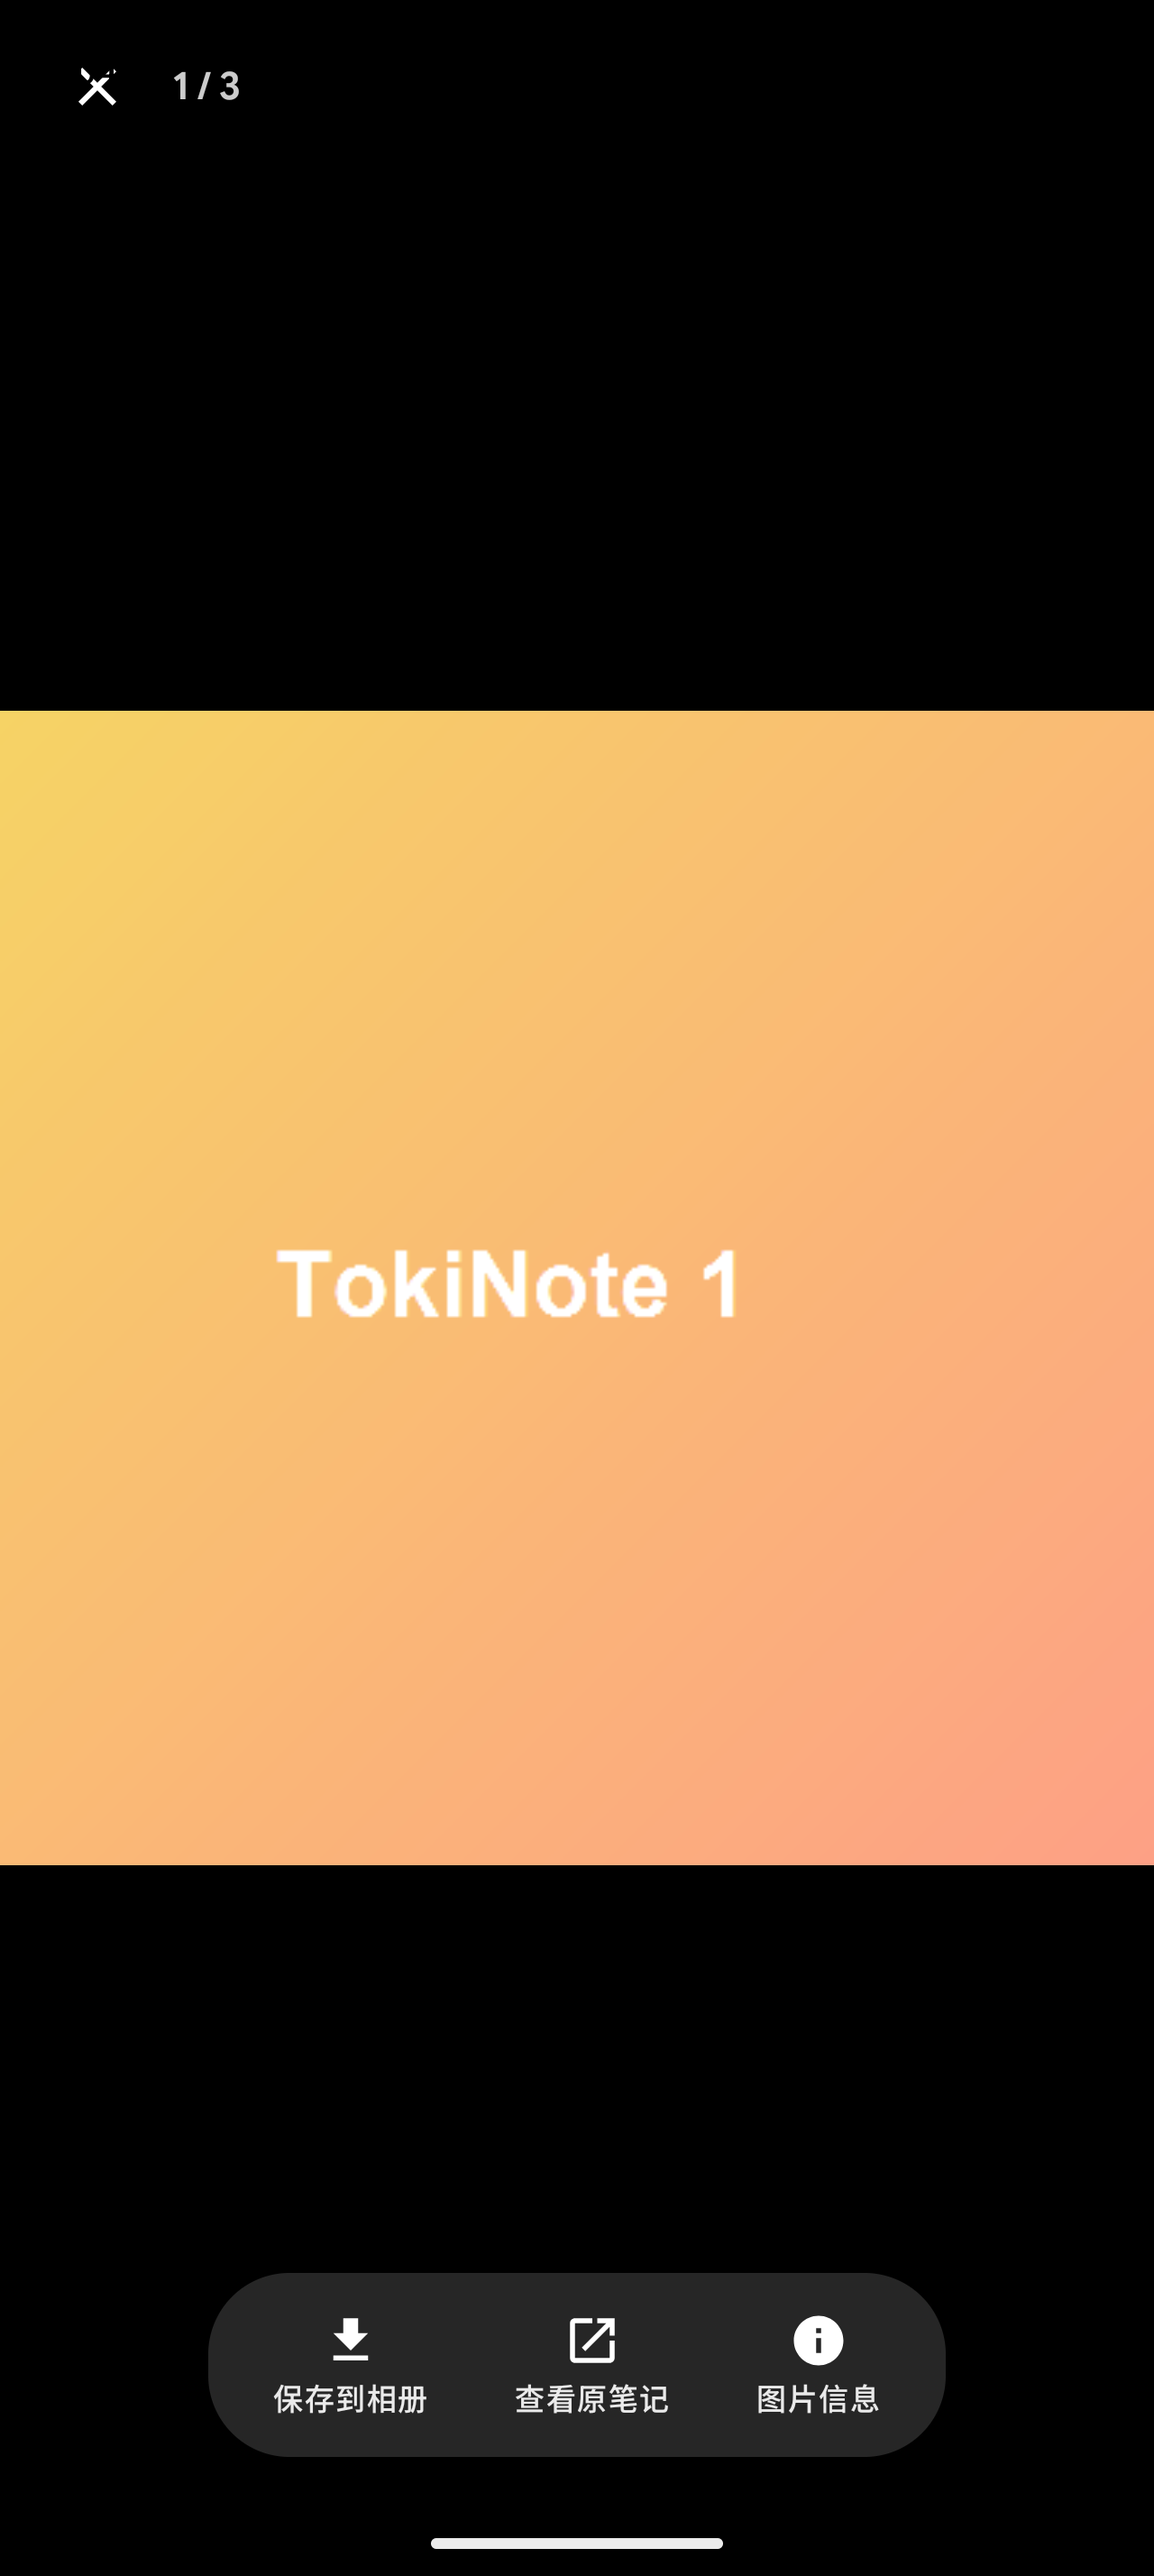
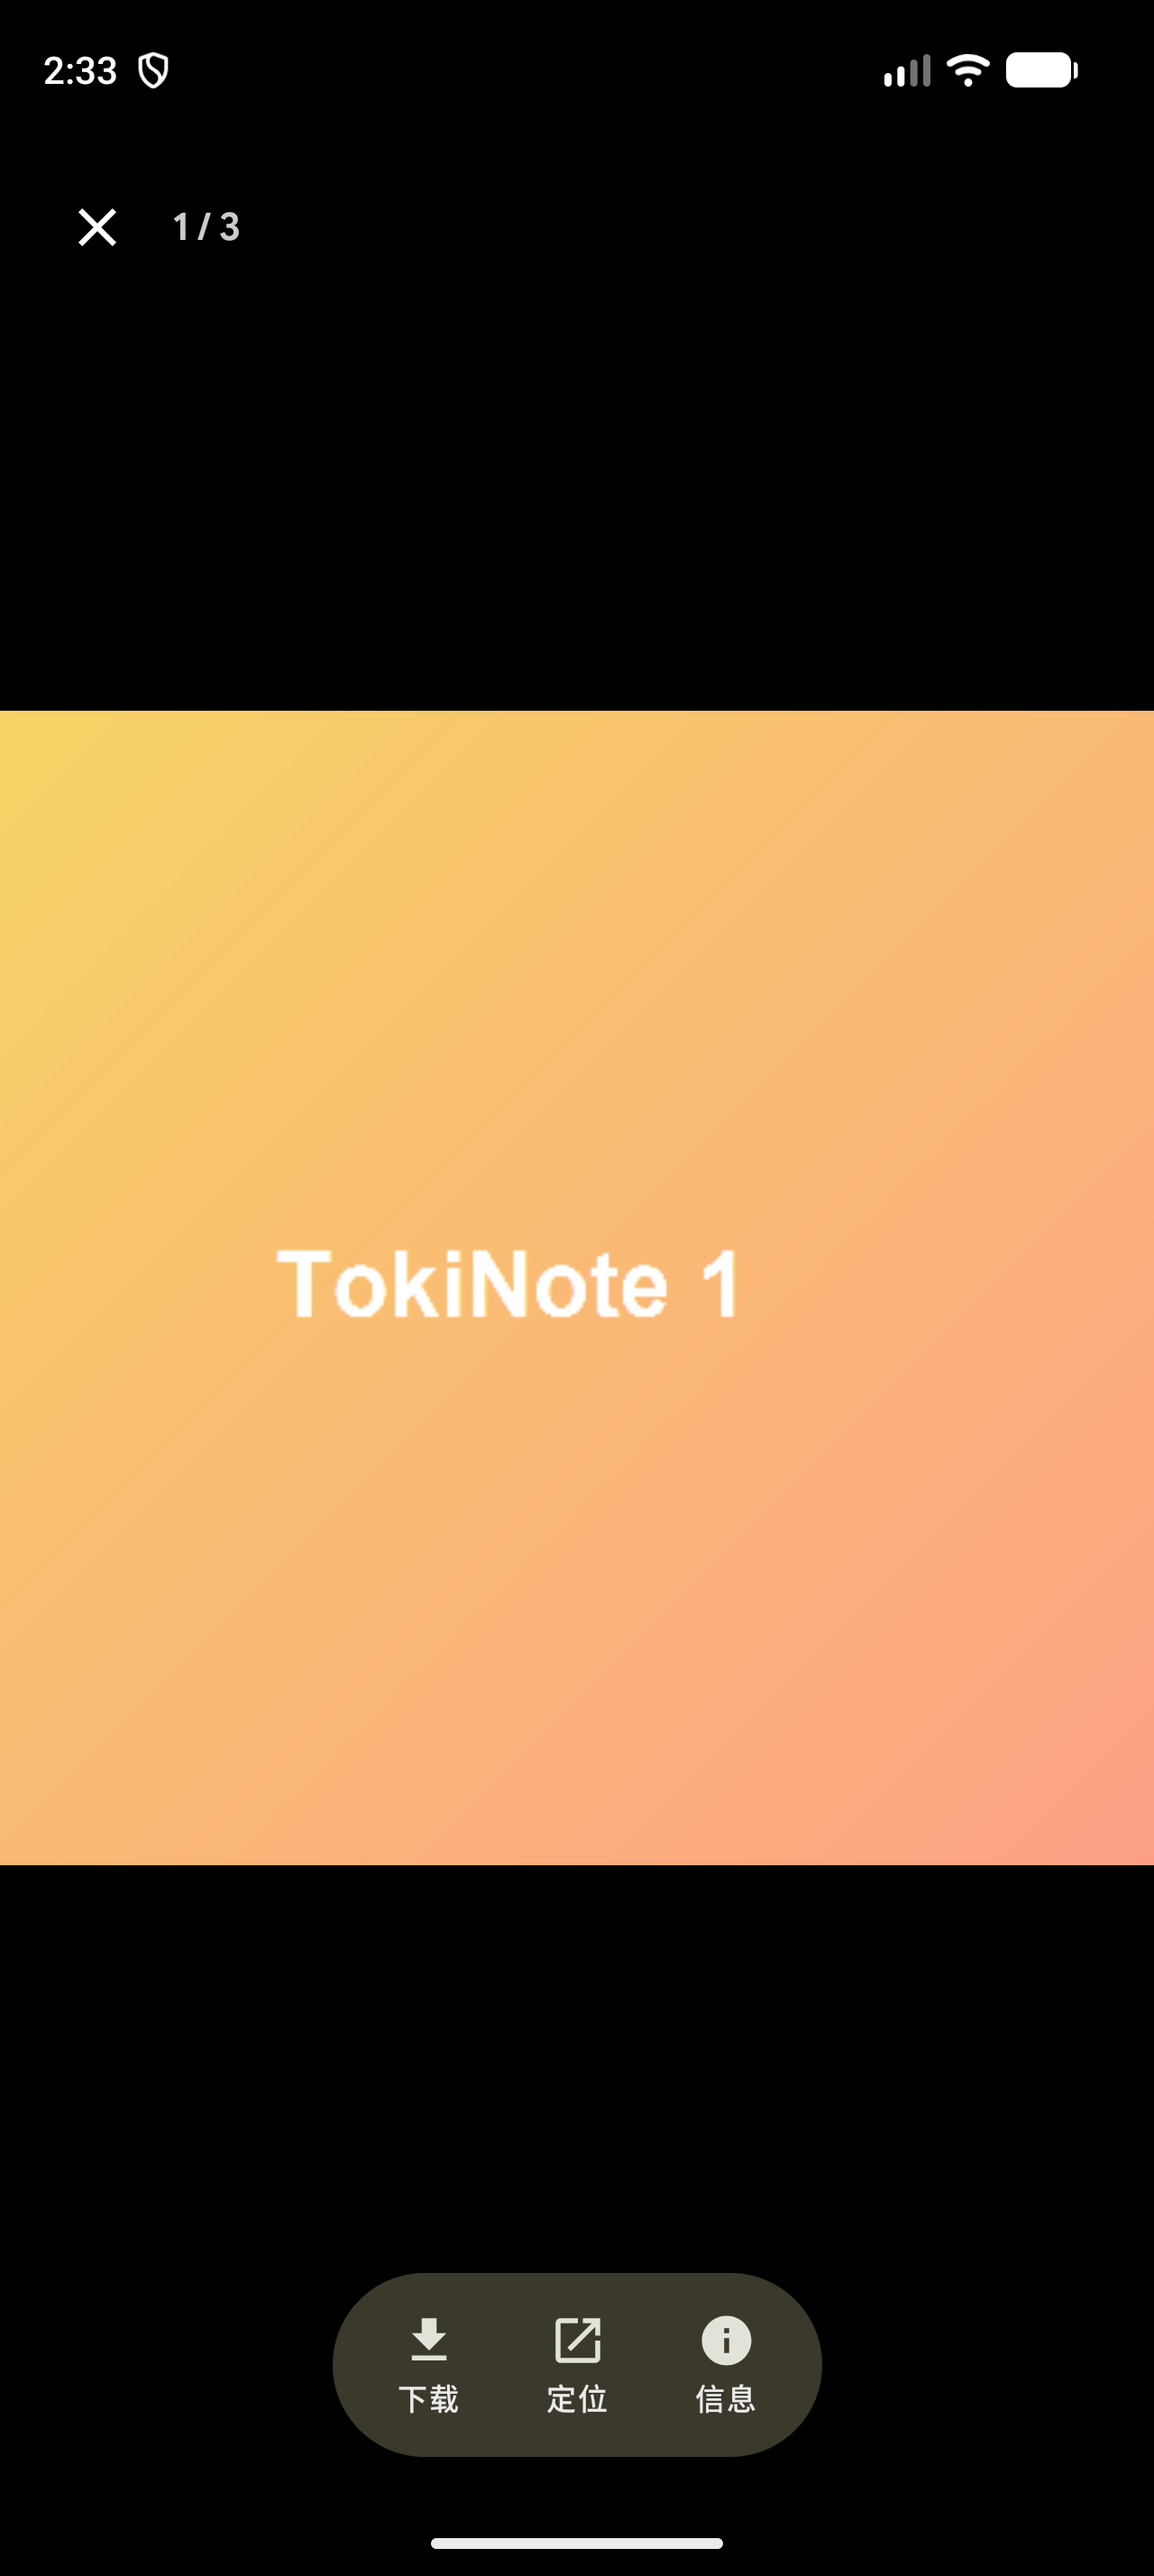
docs: refresh screenshots and rewrite README for features and design

diff --git a/README.md b/README.md
@@ -1,105 +1,85 @@
 # TokiNote
 
-本地优先的笔记 + 专注应用。设计语言以 [Tomato](https://github.com/nsh07/Tomato) 为基准，
-遵循 Material 3 Expressive：大圆角、胶囊控件、悬浮导航栏、分段列表与 Google Sans Flex。
+TokiNote 是一款本地优先的笔记 + 专注应用。
 
-| 日志时间线 | 相册 | 图片查看器 |
+笔记、图片、标签、个人资料和专注记录全部保存在本机；除了「检查更新」和后续的「公告」之外，应用不会发起网络请求。
+
+## 界面
+
+| 主页 | 分组抽屉 | 个人中心 |
 | --- | --- | --- |
-| ![](screenshots/journal.png) | ![](screenshots/album.png) | ![](screenshots/viewer.png) |
+| ![](screenshots/journal.png) | ![](screenshots/drawer.png) | ![](screenshots/profile.png) |
 
-| 编辑器 | 专注 | 统计 |
+| 编辑器 | 相册 | 图片查看器 |
 | --- | --- | --- |
-| ![](screenshots/editor.png) | ![](screenshots/focus.png) | ![](screenshots/focus-summary.png) |
+| ![](screenshots/editor.png) | ![](screenshots/album.png) | ![](screenshots/viewer.png) |
 
-| 计时设置 | 外观 | 数据 | 关于 |
-| --- | --- | --- | --- |
-| ![](screenshots/timer.png) | ![](screenshots/appearance.png) | ![](screenshots/data.png) | ![](screenshots/about.png) |
+| 专注 | 专注总结 | 计时设置 |
+| --- | --- | --- |
+| ![](screenshots/focus.png) | ![](screenshots/focus-summary.png) | ![](screenshots/timer.png) |
+
+| 外观 | 数据 | 关于 |
+| --- | --- | --- |
+| ![](screenshots/appearance.png) | ![](screenshots/data.png) | ![](screenshots/about.png) |
 
 ## 笔记
 
-- 顶部是一条半透明磨砂搜索胶囊：菜单、搜索 TokiNote、网格/列表切换、排序、头像；不再有独立 Note 标题和主页 Tab 行
-- 底栏是 One UI 风格的单层毛玻璃胶囊（30dp 模糊 + 轻叠色 + 边缘高光）与小圆角矩形按钮：列表 / 日历 / 搜索结果从下方滚过时会真实模糊背后内容
-- Expressive 外形：不对称圆角卡片、加粗大标题、细描边的彩色标签
-- 笔记列表：支持「已置顶 / 全部笔记」小标题、两列网格与单列列表；卡片有图时图片顶部铺满，无图时不渲染图片容器
-- 左侧抽屉：笔记 / 相册 / 统计三个入口，选中高亮；笔记分组与相册文件夹是可折叠小节（旋转箭头 + 伸缩动画），抽屉左边距 16dp、宽度 68%、大阴影
-- 相册文件夹：支持命名、多选照片、查看创建时间、编辑/删除；点顶栏头像打开 Google 账户风格「个人中心」，可展开编辑用户名 / 邮箱、从相册换头像、查看 App 存储占用并跳系统应用详情；功能卡与存储卡按设置页样式贴成一张分组卡片
-- 全屏沉浸式：状态栏 / 导航栏透明，顶部有一层渐变 scrim，状态栏图标随深浅色自动切换
-- 日志：按天分组的卡片，含 emoji、标题、正文预览、描边标签、图片拼贴与时间（可在外观设置里关闭时间）
-- 长按卡片会从卡片实际位置膨胀成屏幕中央的预览窗，背景压暗，可直接打开 / 归档 / 删除
-- 归档的笔记不进首页且不可编辑；回收站保留 14 天，可恢复或彻底删除
-- 相册：当月图片三列网格；点开进入全屏查看器
-  - 双指缩放、双击放大
-  - 底部悬浮操作条：保存到系统相册 / 查看原笔记 / 图片信息（大小、时间、路径）
-- 日历页：月视图，有日记的日子显示当天 emoji，选中日直接列出当天日记
-- 编辑器：首图提取主色，驱动背景 / 标题 / 保存按钮 / 底部工具岛；正文与头部全屏滚动、顶栏和工具岛悬浮；向下滚动时标题缩小、日期标签 Spring 收起，回顶弹回；
-  图片横幅 + 大标题留白；底部是默认收起、点击后弹性展开的悬浮工具岛；顶部「更多」打开笔记信息面板（创建 / 编辑时间、标签、归档 / 删除）
+- 顶部悬浮搜索胶囊：菜单、搜索 TokiNote、网格 / 列表切换、排序和头像集中在一条控件里
+- 笔记列表支持「已置顶 / 全部笔记」分区、两列网格与单列列表；有图时图片在卡片顶部铺满，无图时卡片直接从标题开始
+- 长按卡片会从卡片位置展开预览，可直接打开、归档或删除
+- 左侧悬浮抽屉：笔记 / 相册 / 统计三个入口，笔记分组与相册文件夹可折叠展开，选中项高亮
+- 相册文件夹支持命名、多选照片、查看创建时间、编辑和删除；文件夹只记录照片引用，不复制或删除原图
+- 相册支持网格 / 列表切换；点开照片进入全屏查看器，支持双指缩放、双击放大、保存到系统相册、回到原笔记和查看图片信息
+- 日历视图按天展示日记，有记录的日期显示当天 emoji，选中日期直接列出当天内容
+- 编辑器从首图提取主色，驱动背景、标题、保存按钮和底部工具岛；正文与头部整体滚动，顶栏和工具岛悬浮
+- 向下滚动时大标题缩小、日期标签弹性收起，顶栏显示当前标题；回到顶部自动恢复
+- 底部工具岛默认收起，点击后弹性展开格式、图片、清单和日期工具；顶部「更多」打开笔记信息面板
+- 归档笔记不进入主页且不可编辑；回收站保留 14 天，可恢复或彻底删除
 
 ## 专注
 
-- 专注 25 / 短休息 5 / 长休息 15，长休息间隔可调
-- 「波浪断点」计时环 + 中心暂停按钮
-- 不定时专注：长按或双击计时数字进入正向计时，重置回到原计时
-- 重置 / 跳过 / 计时器设置三个按钮，右下角独立按钮直接进入统计
-- 统计页照 Tomato：今天专注与休息卡片、上周柱状图、上个月迷你柱状图
-- 计时设置照 Tomato：大号时间预览 + 场景切换 + 预设胶囊 + 自定义（系统时间选择器）
+- 支持专注、短休息、长休息计时，时长与长休息间隔可自定义
+- 波浪断点计时环 + 中央主按钮，重置 / 跳过 / 设置独立排列
+- 长按或双击计时数字进入不定时正向计时，重置后回到原计时
+- 专注总结展示今日专注 / 休息、上周柱状图和上个月迷你柱状图
+- 计时设置提供大号预览、场景切换、预设胶囊和系统时间选择器
+
+## 个人中心
+
+- 点顶栏头像打开个人中心
+- 头像可从系统相册选择，也可使用内置 emoji
+- 用户名和邮箱可展开编辑，修改立即在全局生效
+- 存储卡显示 APK、本地文件和缓存的占用，点击可直接进入系统应用详情
+- 管理账号与功能入口当前为占位，点击会提示「功能暂不支持」
 
 ## 设置
 
-- 外观：主题模式、配色预设（抹茶 / 晴空 / 紫藤 / 暖橙）、动态取色、纯黑、显示时间、减弱动效
-- 数据：笔记数量、备份 JSON、清空全部数据（同为分段列表项）
-- 关于：只保留「基于 Material Design 3 Expressive 设计」、版本、检查更新、GitHub 主页；检查更新右侧有 Release / Beta 下拉通道（M3E 大圆角菜单 + Spring 箭头）
+- 外观：主题模式（跟随系统 / 浅色 / 深色）、配色预设、动态取色、纯黑、显示时间、减弱动效
+- 数据：笔记 / 归档 / 回收站数量、备份 JSON、清除缓存、存储占用、清空全部数据
+- 关于：版本信息、检查更新、GitHub 主页
 
 ## 应用内更新
 
-「检查更新」读取 GitHub Releases API 比对版本；有新版时展示 release notes，
-可下载 APK 并交给系统安装器（未授权「安装未知应用」时自动跳转设置）。
-Release 通道只匹配 `0.2.7` 这类标准 tag；Beta 通道只匹配 `0.2.9-beta` 这类带 `-beta` 的测试 tag，两边的 release 不会互相混入。
+- 「检查更新」读取 GitHub Releases，比对当前版本后展示更新说明
+- 支持 Release 与 Beta 两个通道：
+  - Release 只匹配 `0.2.7` 这类标准版本
+  - Beta 只匹配 `0.2.9-beta` 这类测试版本
+- 有新版本时可直接下载 APK 并交给系统安装器；未授权「安装未知应用」时会跳转系统设置
+- 下载失败、网络不可达或没有匹配版本时会在页面内提示，不影响本地功能
 
-除检查更新和后续公告拉取外，App 不发起任何网络请求；没有匿名统计、账号上报，笔记和个人资料只保存在本机。
+## 数据与隐私
 
-## 数据存储
+- 所有笔记、图片、标签、分组、相册文件夹、个人资料和专注记录都保存在本机
+- 支持导出完整 JSON 备份；清除缓存不会删除笔记
+- 不接入匿名统计、账号上报或用户画像，不上传用户 ID、邮箱和笔记内容
+- 断网时除检查更新外，所有功能均可正常使用
 
-所有数据保存在设备本地（`SharedPreferences` + JSON）：`notes` / `labels` / `groups` / `settings` / `sessions`。
-只有「检查更新 / 下载 APK」会访问 `api.github.com` 与 GitHub 下载地址。
+## 设计
 
-## 构建
-
-```bash
-# 需要 JDK 17+ 与 Android SDK（compileSdk 37）
-./gradlew assembleDebug
-adb install -r app/build/outputs/apk/debug/app-debug.apk
-```
-
-## 工程结构
-
-```
-app/src/main/java/com/tokinote/app/
-├── MainActivity.kt            入口，主题（深色 / 动态取色 / 配色预设 / 纯黑）
-├── data/
-│   ├── Note.kt                笔记模型
-│   ├── NoteGroup.kt           首页分组模型
-│   ├── AppSettings.kt         设置、配色预设与专注记录
-│   ├── TokiStore.kt           SharedPreferences + JSON 持久化
-│   ├── UpdateChecker.kt       GitHub Releases 检查与 APK 下载
-│   └── AppViewModel.kt        单一状态源
-└── ui/
-    ├── TokiNoteApp.kt         导航栈 + 底栏 + 转场
-    ├── Dest.kt                页面路由
-    ├── Motion.kt              动效开关、弹簧参数、按压缩放
-    ├── components/            顶栏、悬浮导航栏、胶囊按钮组、分段列表
-    ├── notes/                 时间线、分组、相册网格、编辑器、图片查看器、日历
-    ├── focus/                 番茄钟、波浪环、统计、计时设置
-    └── settings/              外观 / 数据 / 关于、APK 安装器
-```
-
-## 设计来源与许可
-
-- 视觉基准：[Tomato](https://github.com/nsh07/Tomato)（GPL-3.0）
-- 字体：[Google Sans Flex](https://fonts.google.com/specimen/Google+Sans+Flex) 与 [Micro 5 Charted](https://fonts.google.com/specimen/Micro+5+Charted)，随应用打包
-- 组件：Jetpack Compose 1.12.1 + Material 3 1.5.0 + Haze 2.0.1（毛玻璃）
+以大圆角卡片、悬浮胶囊、毛玻璃、分段列表和弹性动效为主要视觉语言，支持深色 / 浅色、纯黑与动态取色。
 
 ## 已知限制
 
-- 计时器仅前台运行（未接前台 Service）
-- 富文本是整条日记级的字号/字重，不是局部加粗
-- 应用内更新依赖 GitHub 可达；无法安装时会引导用户去系统设置授权
+1. 计时器目前仅在前台运行，尚未接入前台 Service
+2. 富文本目前是整条日记级别的字号 / 字重，不是局部加粗
+3. 应用内更新依赖 GitHub 可达；无法安装时会引导到系统设置授权
